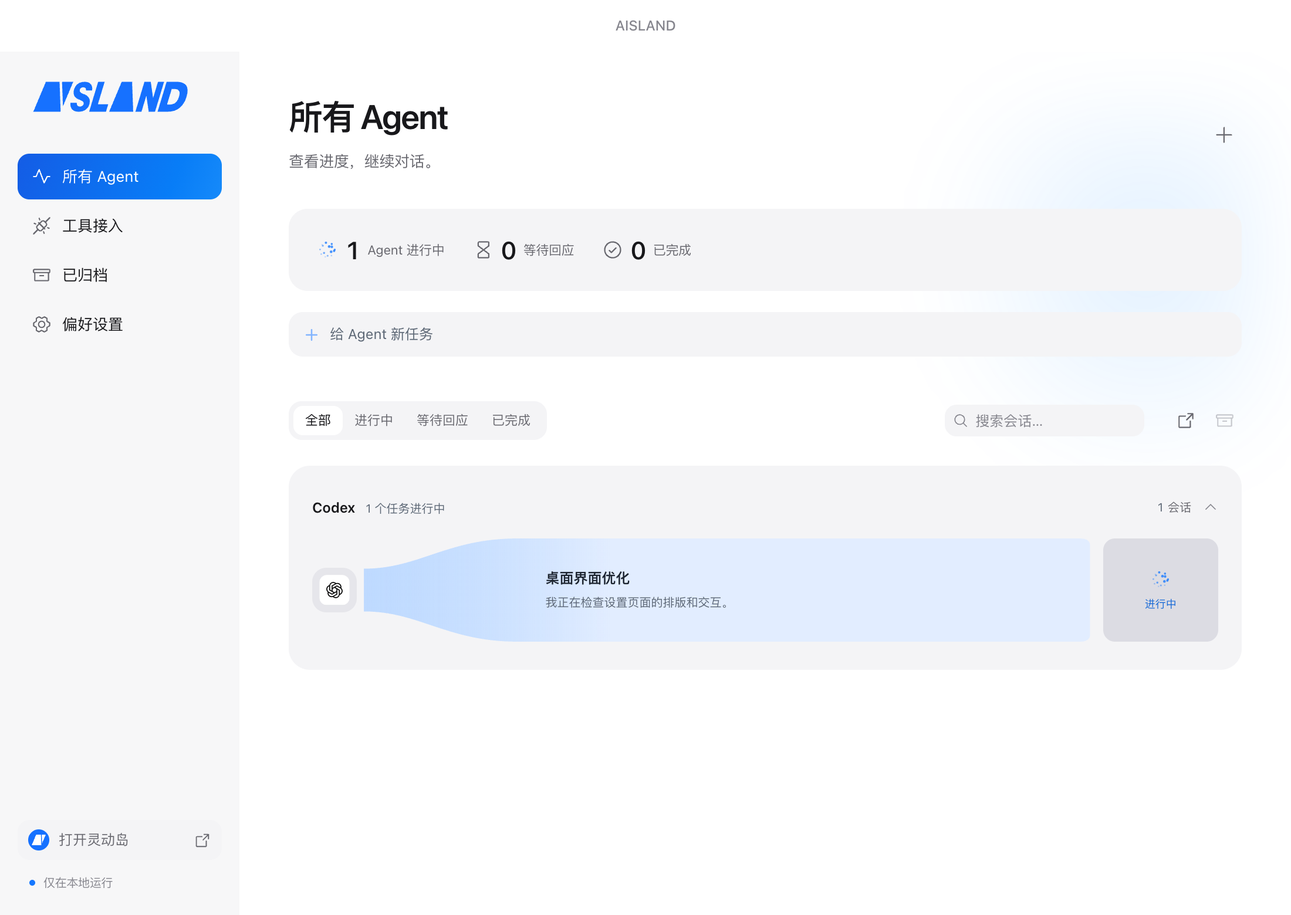
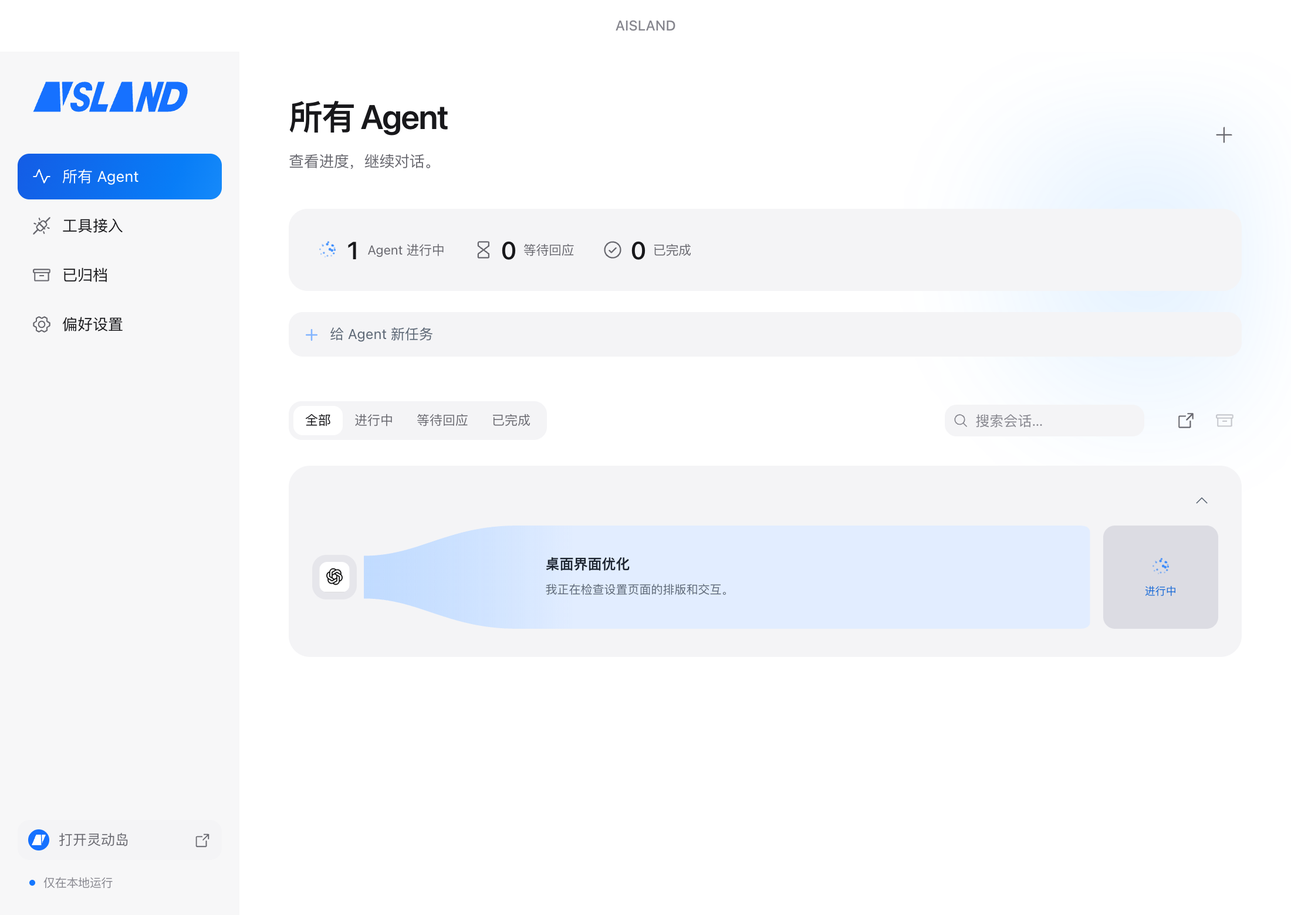
Publish compact Agent runways in AISLAND 0.3.35

Changed region(s): [[0.2473, 0.5538, 0.5564, 0.7077], [0.8964, 0.6154, 0.9273, 0.6462], [0.2473, 0.5538, 0.2782, 0.5846]]

diff --git a/public/docs/index.html b/public/docs/index.html
@@ -1,7 +1,7 @@
-<!doctype html><html lang="zh-CN"><head><meta charset="utf-8"><meta name="viewport" content="width=device-width,initial-scale=1"><title>使用文档 — AISLAND</title><meta name="description" content="AISLAND 的安装、快速体验、Node.js 与 Python 接入、审批安全和本地数据说明。"><meta name="theme-color" content="#ffffff"><link rel="canonical" href="https://calibg.github.io/agent-island/docs/"><link rel="icon" href="../assets/icon.svg?v=icons-33" type="image/svg+xml"><link rel="stylesheet" href="../marketing.css"><link rel="stylesheet" href="../docs.css"><script src="../site.js" defer></script></head><body class="landing">
-<a class="skip-link" href="#main">跳到文档内容</a><header class="header"><div class="container header-inner"><a class="brand" href="../"><img src="../assets/wordmark.svg?v=icons-33" width="150" height="28" alt="AISLAND"></a><nav class="nav" id="navigation" aria-label="主导航"><a href="../#product">产品体验</a><a href="../#connect">通用接入</a><a href="./" aria-current="page">使用文档</a></nav><a class="nav-download" href="../#download">下载体验 <span aria-hidden="true">↗</span></a><button class="menu-toggle" aria-expanded="false" aria-controls="navigation" aria-label="展开导航"><span></span><span></span></button></div></header>
+<!doctype html><html lang="zh-CN"><head><meta charset="utf-8"><meta name="viewport" content="width=device-width,initial-scale=1"><title>使用文档 — AISLAND</title><meta name="description" content="AISLAND 的安装、快速体验、Node.js 与 Python 接入、审批安全和本地数据说明。"><meta name="theme-color" content="#ffffff"><link rel="canonical" href="https://calibg.github.io/agent-island/docs/"><link rel="icon" href="../assets/icon.svg?v=runways-35" type="image/svg+xml"><link rel="stylesheet" href="../marketing.css"><link rel="stylesheet" href="../docs.css"><script src="../site.js" defer></script></head><body class="landing">
+<a class="skip-link" href="#main">跳到文档内容</a><header class="header"><div class="container header-inner"><a class="brand" href="../"><img src="../assets/wordmark.svg?v=runways-35" width="150" height="28" alt="AISLAND"></a><nav class="nav" id="navigation" aria-label="主导航"><a href="../#product">产品体验</a><a href="../#connect">通用接入</a><a href="./" aria-current="page">使用文档</a></nav><a class="nav-download" href="../#download">下载体验 <span aria-hidden="true">↗</span></a><button class="menu-toggle" aria-expanded="false" aria-controls="navigation" aria-label="展开导航"><span></span><span></span></button></div></header>
 <div class="container docs-layout"><aside class="docs-sidebar" aria-label="文档目录"><p class="eyebrow">GETTING STARTED</p><a href="#install">安装与打开</a><a href="#first-use">第一次体验</a><a href="#desktop-agents">桌面 Agent 与启动设置</a><a href="#quickstart">接入你的 Agent</a><a href="#approvals">审批与问答</a><a href="#capabilities">当前支持范围</a><a href="#privacy">数据与隐私</a><a href="#troubleshooting">常见问题</a><a href="./protocol.md">完整 HTTP 协议 ↗</a></aside>
-<main class="docs-content" id="main"><p class="eyebrow">AISLAND / DOCUMENTATION</p><h1>从这里，开始登岛。</h1><p class="docs-lead">安装应用，体验小岛，再把你自己的 Agent 接进来。<br>适用于 v0.3.34 预览版。</p>
+<main class="docs-content" id="main"><p class="eyebrow">AISLAND / DOCUMENTATION</p><h1>从这里，开始登岛。</h1><p class="docs-lead">安装应用，体验小岛，再把你自己的 Agent 接进来。<br>适用于 v0.3.35 预览版。</p>
 <section id="install"><h2>安装与打开</h2><p>应用本身不需要 Node.js 或 Python。Claude Code、Codex、WorkBuddy、Antigravity 的 Hooks 需要 Python 3.9+；对应 SDK 需要 Node.js 20+ 或 Python 3.9+。</p><h3>macOS · Apple Silicon</h3><ol><li>从<a href="../#download">下载页面</a>获取 DMG，打开后将 AISLAND 拖入 Applications（应用程序）。</li><li>从应用程序中启动 AISLAND。</li><li>当前提供 M 系列芯片版本，尚未提供 Intel 安装包。</li></ol><p>桌面界面跟随系统明暗模式。macOS 开关使用 AppKit NSSwitch；Windows 设置使用微软官方 Fluent UI React 组件，并保留系统窗口按钮。</p><h3>Windows · x64</h3><ol><li>下载 EXE 安装程序，按提示安装并打开。</li></ol><div class="doc-note"><p>当前是未签名的预览版，尚未完成 Apple Developer ID 公证或 Windows Authenticode 签名。首次打开可能出现系统来源提示，请先确认下载地址和<a href="../download-checksums.txt">文件校验信息</a>。Mac 已完成自动化验证，Windows 安装包已构建，尚待实机验证。</p></div><p>应用常驻菜单栏或系统托盘。关闭管理窗口不会退出应用；如需完全退出，请使用托盘菜单中的「退出」。</p></section>
 <section class="doc-section" id="first-use"><h2>接入 Claude Code</h2><ol><li>启动 AISLAND，打开「工具接入」，点击 Claude Code 的「安装接入」。这一步需要 Python 3.9+。</li><li>在项目终端运行 <code>claude</code>。已启动的会话可重启一次或用 <code>/hooks</code> 检查配置。</li><li>提交真实任务后，小岛显示运行状态；权限确认和问题回答会返回当前 Claude Code 会话。</li></ol><p>保留你已有的 Hooks、模型和权限配置。只有明确确认才允许操作；小岛不在线或请求超时，回到 Claude Code 原有交互。计划确认仍在终端处理。</p><p>快捷键：macOS 为 Cmd + Shift + Space，Windows 为 Ctrl + Shift + Space。</p></section>
 <section id="desktop-agents"><h2>Codex、Antigravity 与接入助手</h2><p>在应用「工具接入」中打开接入助手。先检查 Python 3.9+ 和 Codex，再安装接入配置。助手保留已有配置并备份，不会更改权限策略。</p><h3>Codex 桌面软件</h3><ol><li>点击「安装 Codex 接入」，等待写入完成。</li><li>点击「打开审核终端」，在 Codex 中输入 <code>/hooks</code>，审核并信任「AISLAND · Codex」条目。审核不会自动进行。</li><li>回到小岛点击「重新检查」。显示已启用并信任后，重启 Codex 桌面端并开启新任务。</li></ol><p>支持真实进度、工具调用、权限确认、结束与中断。问答和计划仍在 Codex 中完成。用户级 Hooks 也会被同一配置下的 CLI 加载；小岛跳转唤起桌面软件，不定位具体聊天。</p><h3>Antigravity</h3><p>在对应接入卡片点击安装，重启 Antigravity 并开启新任务。支持进度、工具调用与后台任务状态。权限和问答在 Antigravity 内处理。</p><h3>登录后自动运行</h3><p>「登录后自动启动小岛」与「启动时运行接入检查」是独立开关，默认关闭。前者运行本机服务；后者只读检查环境与 Hooks 状态，发现未完成步骤时显示助手，不自动批准 Hooks。</p><p>应用先放入应用程序目录或通过 Windows 安装程序安装。系统要求批准登录项时，请在系统设置中完成；未签名 macOS 预览包的登录启动可能受系统限制。界面显示系统实际状态，不能等同于已经实测重启。</p><p>「已配置」不代表已经连接。收到真实 Hook 后才显示事件回执。安装脚本与配置不上传网站。</p></section><section class="doc-section" id="quickstart"><h2>接入你的 Agent</h2><h3>第一次接入：复制一段指令</h3><ol><li>在 AISLAND 打开「工具接入」，点击「复制接入指令」。</li><li>粘贴到这台电脑上的 Agent 对话中，让它按指令完成接入配置。</li><li>回到 AISLAND。收到对应 Agent 的回执后，导览会自动显示「本机通信已验证」。</li></ol><p>无需手动填写端口或拼接命令，SDK 路径和接入说明会自动加入指令。适用于能读取本机文件、执行命令的 Agent；仅聊天的网页应用不能靠粘贴文字接入。验证不会创建演示任务。真实进度、审批和问答需由 Agent 接入对应的回调，后台派发能力单独判断。SDK、地址和示例命令仍可在「高级接入」中找到。</p><h3>开发者：手动接入 SDK</h3><p>先启动 AISLAND，再把 SDK 文件复制到你自己的项目。SDK 会读取当前用户目录下的本机连接信息，向应用报告状态。无需第三方依赖，也不需要填写 AI 服务密钥。</p><div class="doc-downloads"><a class="button" href="../sdk/agent-island.mjs" download>下载 Node.js SDK ↓</a><a class="button" href="../sdk/agent_island.py" download>下载 Python SDK ↓</a><a class="button" href="../sdk/example.mjs" download>下载完整 Node.js 示例 ↓</a></div><h3>Node.js</h3><p>将以下代码保存为 <code>connect.mjs</code>，与 <code>agent-island.mjs</code> 放在同一个目录，然后运行 <code>node connect.mjs</code>。</p><pre><code>import { AgentIsland } from './agent-island.mjs';
@@ -33,10 +33,10 @@ if (result.decision === 'allow') {
 } else {
   await island.complete('操作未获批准。');
 }</code></pre><p>审批最多等待约 10 分钟。超时、断线、会话结束、应用退出或重启，都不会自动批准。接入方必须把错误与 <code>cancel</code> 视为未批准，不应在捕获异常后继续执行待确认操作。</p><p>Node.js SDK 还提供 <code>ask()</code>（单选、多选、自定义回答）、<code>plan()</code>（计划与反馈）和 <code>usage()</code>（真实上报的用量）。可下载完整示例体验双向交互。Python 可用 <code>send()</code> 发送协议定义的其他事件。</p></section>
-<section class="doc-section" id="more-agents"><h2>Gemini、Cursor、MiniMax 与智谱</h2><p>v0.3.29 新增 Gemini CLI 与 Cursor 的官方 Hooks 观察接入。在「工具接入」安装后开启新会话，收到任务事件才显示已收到事件。支持任务和工具状态、最终回复；审批与续发仍在原应用完成。Gemini CLI 与 Gemini 网页是不同的接入。</p><p>MiniMax Code 使用本地 Plugin V1 Hooks。安装官方 MiniMax Code 和 mcode 命令后，在「工具接入 → MiniMax Code」点击「接入」：AISLAND 会查询当前配置的本地插件目录，安装、启用并检查插件。更新前备份旧插件，遇到其他同名插件不会覆盖。也可以展开说明选择「手动安装插件」。开始真实任务后收到事件，才说明进度链路已接通；审批、问答与续发仍在 MiniMax Code 完成。MiniMax Design 不适用。</p><p>智谱 GLM 可通过已配置 GLM 的 Claude Code 接入：安装 Claude Code Hooks 后，根据事件明确提供的模型标识显示智谱，仍续发到同一个 Claude Code 会话。不会自动连接智谱清言或 AutoGLM。智谱清言客户端已单独列出，目前原会话读取、进度同步与后台续发仍待实机验证；开放平台的助手 API 不代表已经接通清言客户端。</p><p>豆包电脑版、Grok 原有对话的状态同步与后台续发目前尚未接通；公开模型 API 不代表可以读取这些产品里的现有对话。应用会明确显示限制。</p><p>新适配器已通过隔离 Hook 进程与本地桥的协议测试；所有新客户端的用户账户实机验收仍待完成。官方参考：<a href="https://geminicli.com/docs/hooks/reference/">Gemini CLI Hooks</a>、<a href="https://cursor.com/docs/hooks">Cursor Hooks</a>、<a href="https://github.com/MiniMax-AI/minimax-code/blob/main/docs/hooks.md">MiniMax Hooks</a>、<a href="https://docs.bigmodel.cn/cn/coding-plan/best-practice/claude-code">智谱接入指南</a>。</p></section><section class="doc-section" id="capabilities"><h2>当前支持范围</h2><p>v0.3.30 的分叉根据任务活动调整高度：活跃任务更突出，暂停、完成和长期无进展的会话更紧凑。左侧图标区域随任务量适度增长，始终小于分支总高度的 2/3。五分钟没有新进展只影响显示空间，不改变任务状态；鼠标操作或输入时固定布局，原有蓝色动效保留。</p><div class="table-scroll"><table><thead><tr><th>功能</th><th>v0.3.34 状态</th></tr></thead><tbody><tr><td>桌面小岛、悬停、快捷键、多显示器</td><td>已提供</td></tr><tr><td>Mac 原生刘海定位与 Force Touch 进入反馈</td><td>已提供；触感需支持的触控板</td></tr><tr><td>事件提示音、音量、安静时段、减少动态效果</td><td>已提供</td></tr><tr><td>会话搜索、筛选、活动记录、归档</td><td>已提供</td></tr><tr><td>审批、问答、计划审阅、用量上报</td><td>已提供</td></tr><tr><td>Node.js / Python / HTTP 通用接入</td><td>已提供</td></tr><tr><td>Claude Code Hooks</td><td>状态、权限确认与问答已提供；计划确认在终端</td></tr><tr><td>Codex / Antigravity</td><td>真实 Hooks 接入；具体能力与首次信任见上文</td></tr><tr><td>接入助手与启动检查</td><td>环境检查、官方信任状态、用户自行选择登录启动</td></tr><tr><td>厂商账户额度自动采集、SSH、手机推送、自动更新</td><td>未提供</td></tr></tbody></table></div><p>应用采用 Electron + React 与 macOS 原生面板模块。Mac 读取刘海安全区并从下沿展开；Windows 从屏幕顶部中央展开，外接屏无需物理刘海。AISLAND 为独立实现，不是 Vibe Island 的官方版本。</p></section>
+<section class="doc-section" id="more-agents"><h2>Gemini、Cursor、MiniMax 与智谱</h2><p>v0.3.29 新增 Gemini CLI 与 Cursor 的官方 Hooks 观察接入。在「工具接入」安装后开启新会话，收到任务事件才显示已收到事件。支持任务和工具状态、最终回复；审批与续发仍在原应用完成。Gemini CLI 与 Gemini 网页是不同的接入。</p><p>MiniMax Code 使用本地 Plugin V1 Hooks。安装官方 MiniMax Code 和 mcode 命令后，在「工具接入 → MiniMax Code」点击「接入」：AISLAND 会查询当前配置的本地插件目录，安装、启用并检查插件。更新前备份旧插件，遇到其他同名插件不会覆盖。也可以展开说明选择「手动安装插件」。开始真实任务后收到事件，才说明进度链路已接通；审批、问答与续发仍在 MiniMax Code 完成。MiniMax Design 不适用。</p><p>智谱 GLM 可通过已配置 GLM 的 Claude Code 接入：安装 Claude Code Hooks 后，根据事件明确提供的模型标识显示智谱，仍续发到同一个 Claude Code 会话。不会自动连接智谱清言或 AutoGLM。智谱清言客户端已单独列出，目前原会话读取、进度同步与后台续发仍待实机验证；开放平台的助手 API 不代表已经接通清言客户端。</p><p>豆包电脑版、Grok 原有对话的状态同步与后台续发目前尚未接通；公开模型 API 不代表可以读取这些产品里的现有对话。应用会明确显示限制。</p><p>新适配器已通过隔离 Hook 进程与本地桥的协议测试；所有新客户端的用户账户实机验收仍待完成。官方参考：<a href="https://geminicli.com/docs/hooks/reference/">Gemini CLI Hooks</a>、<a href="https://cursor.com/docs/hooks">Cursor Hooks</a>、<a href="https://github.com/MiniMax-AI/minimax-code/blob/main/docs/hooks.md">MiniMax Hooks</a>、<a href="https://docs.bigmodel.cn/cn/coding-plan/best-practice/claude-code">智谱接入指南</a>。</p></section><section class="doc-section" id="capabilities"><h2>当前支持范围</h2><p>v0.3.35 简化会话分组：收起时只显示 Agent 名称和展开图标，空闲时为灰色跑道，有任务进行时显示蓝色渐变流动；展开后直接显示分叉内容，不重复展示分组名称、状态说明和会话数量。</p><p>v0.3.30 的分叉根据任务活动调整高度：活跃任务更突出，暂停、完成和长期无进展的会话更紧凑。左侧图标区域随任务量适度增长，始终小于分支总高度的 2/3。五分钟没有新进展只影响显示空间，不改变任务状态；鼠标操作或输入时固定布局，原有蓝色动效保留。</p><div class="table-scroll"><table><thead><tr><th>功能</th><th>v0.3.35 状态</th></tr></thead><tbody><tr><td>桌面小岛、悬停、快捷键、多显示器</td><td>已提供</td></tr><tr><td>Mac 原生刘海定位与 Force Touch 进入反馈</td><td>已提供；触感需支持的触控板</td></tr><tr><td>事件提示音、音量、安静时段、减少动态效果</td><td>已提供</td></tr><tr><td>会话搜索、筛选、活动记录、归档</td><td>已提供</td></tr><tr><td>审批、问答、计划审阅、用量上报</td><td>已提供</td></tr><tr><td>Node.js / Python / HTTP 通用接入</td><td>已提供</td></tr><tr><td>Claude Code Hooks</td><td>状态、权限确认与问答已提供；计划确认在终端</td></tr><tr><td>Codex / Antigravity</td><td>真实 Hooks 接入；具体能力与首次信任见上文</td></tr><tr><td>接入助手与启动检查</td><td>环境检查、官方信任状态、用户自行选择登录启动</td></tr><tr><td>厂商账户额度自动采集、SSH、手机推送、自动更新</td><td>未提供</td></tr></tbody></table></div><p>应用采用 Electron + React 与 macOS 原生面板模块。Mac 读取刘海安全区并从下沿展开；Windows 从屏幕顶部中央展开，外接屏无需物理刘海。AISLAND 为独立实现，不是 Vibe Island 的官方版本。</p></section>
 <section class="doc-section" id="privacy"><h2>数据与隐私</h2><p>桌面应用的桥接服务只监听 <code>127.0.0.1</code>，不向局域网开放。请求需通过本机令牌验证，并拒绝携带浏览器 Origin 的请求。不要公开或分享 <code>connection.json</code>。</p><p>会话文本与操作预览保存在 <code>~/.agent-island/state.json</code>。记录默认保留 7 天，下次启动时清理过期记录。在偏好设置中可打开数据目录。</p><p>AISLAND 默认只在本机运行，不设置遥测。主动启用手机连接后，进度摘要和手机指令在设备上用 AES-256-GCM 加密，再经过你配置的 Cloudflare Workers / D1 同步；服务端不持有解密密钥。电脑超过 24 小时不再同步时，服务会清理旧连接。手机配对信息保存在设备本地，配对链接相当于访问凭据，不要分享。你所接入的 AI 工具可能有自己的网络行为与数据策略，请以对应工具的设置为准。</p><p>本官网不嵌入分析追踪器，也不设置账户系统。网页由 GitHub Pages 托管，安装包通过 GitHub Releases 分发；访问与下载产生的基础服务日志由 GitHub 按其<a href="https://docs.github.com/en/site-policy/privacy-policies/github-general-privacy-statement">隐私声明</a>处理。</p></section>
 <section class="doc-section" id="mobile"><h2>手机同步与控制</h2><p>自部署用户可下载<a href="https://github.com/CaliBG/agent-island/releases/download/v0.3.0/Agent-Island-Sync-0.1.0.zip">免费同步服务部署包</a>，按其中 README 设置 Workers 和 D1。</p><ol><li>在电脑打开「设置 → 手机与远程」，配置你自己的 Cloudflare Workers 免费同步服务，然后生成配对码。已配置服务的电脑可直接生成二维码。</li><li>手机打开<a href="../mobile/">移动端</a>，扫码或粘贴配对链接。二维码仅用于配对，有效期 10 分钟。</li><li>iPhone 可通过 Safari「分享 → 添加到主屏幕」免费使用。Android 可从官网下载 APK 安装；原生预览版尚待真机验证。</li><li>按需在电脑分别允许「发送 Agent 任务」「调整保持唤醒」「打开远程控制软件」。三项默认关闭。</li></ol><p>前台约 5 秒刷新，手机进入后台后暂停轮询。电脑需运行 AISLAND 并联网；离线时只能查看最后同步的数据。发送后的“已排队”不等于执行成功，请以电脑返回的回执为准。保持唤醒不会解除手动锁屏，远程软件仍使用自身的登录和验证。</p><p>同步后端使用 Workers / D1 免费额度，超额时可能暂停，不会自动升级付费。AI 工具本身的订阅、额度以及第三方远程软件的收费由各厂商决定。iOS 原生工程已编译验证，尚未提供 App Store / TestFlight 安装。</p></section>
 <section class="doc-section" id="task-input"><h2>从小岛发送任务</h2><p>点击「给 Agent 新任务」，选择 Agent 和原对话；鼠标靠近分支右侧的状态按钮会自动弹出输入气泡；点击输入框后取得键盘焦点，已结束的会话也可正常输入。Codex、Claude Code 支持原会话续发，保留上下文；运行中可以排队发送，任务完成后自动续发，每个会话最多一条，可撤回编辑。应用重启或当前任务异常后，队列会暂停，需确认后重新提交。</p><p>Codex 使用官方 app-server 恢复同一个会话，桌面客户端可能需要重新打开对话才能显示新内容；Claude Code 使用官方 Agent SDK。两者沿用本机已有登录，不要求另外填写 API Key。需要审批时，在小岛逐次确认。</p></section>
 <section class="doc-section" id="workbuddy"><h2>接入 WorkBuddy</h2><ol><li>打开「设置 → Agent 接入 → WorkBuddy → 接入」。</li><li>在 WorkBuddy 审核新增 Hooks，再开启新会话；旧会话可能需要重启后加载配置。</li><li>开始真实任务后，设置页会显示「已收到事件」和时间；「已配置」只代表配置已写入。</li></ol><p>当前同步任务、工具调用、结束状态。v0.3.10 增加「填入原对话」：核对会话后通过系统辅助功能填入输入框，已有草稿不会覆盖，发送仍需在 WorkBuddy 确认。Mac 首次使用需允许辅助功能；适配 WorkBuddy 5.11.2，Mac 已由用户验证文字进入正确原对话框；Windows 实机仍待验收。Antigravity 和其他通用接入尚不支持可靠续发，输入框会明确提示。审批与问答仍在 WorkBuddy 完成。安装器会备份配置并保留其他 Hooks 和权限规则。</p></section><section class="doc-section" id="troubleshooting"><h2>常见问题</h2><h3>示例提示找不到 connection.json</h3><p>先打开 AISLAND，确认「工具接入」显示本地连接正常。SDK 和应用需要在同一台电脑、同一用户下运行。自定义数据路径时，可使用 <code>AGENT_ISLAND_HOME</code> 指向相应目录。</p><h3>小岛没有显示在预期位置</h3><p>使用快捷键唤起，或从托盘菜单打开管理窗口，检查偏好设置中的显示器与浮动方式。显示器断开后，应用会回退到可用屏幕。</p><h3>MacBook 没有感觉到震动</h3><p>在设置 → 外观与交互中开启「触控板触感」，将手指放在支持 Force Touch 的触控板上，点击「试一下」。每次进入只发送一次触感，默认清脆模式，可切换标准或轻触。系统公开接口不支持改变单次震动振幅。区域内移动不重复，移出再进入重新触发。声音开关与触感开关相互独立，普通鼠标本身不会震动。</p><h3>无法跳回终端</h3><p>macOS 首次定位 Terminal / iTerm2 会话可能需要系统自动化权限。Windows 在管理员窗口或某些全屏应用下可能拒绝切换焦点。若无法定位会话，可先从工具界面打开对应项目目录。</p><h3>发现其他问题</h3><p>请通过 <a href="https://github.com/CaliBG/agent-island/issues">GitHub Issues</a> 描述操作系统、应用版本与复现步骤。提交截图或日志前，请移除连接令牌、个人路径和项目敏感内容。</p></section>
-<div class="docs-footer">AISLAND v0.3.34 · <a href="../">返回官网</a> · <a href="https://github.com/CaliBG/agent-island/releases/tag/v0.3.34">查看发布记录</a></div></main></div>
+<div class="docs-footer">AISLAND v0.3.35 · <a href="../">返回官网</a> · <a href="https://github.com/CaliBG/agent-island/releases/tag/v0.3.35">查看发布记录</a></div></main></div>
 </body></html>

diff --git a/public/index.html b/public/index.html
@@ -5,24 +5,24 @@
 <title>AISLAND — 少一点切换，多一点专注。</title>
 <meta name="description" content="把 Claude Code、Codex、WorkBuddy 和 Antigravity 的工作进度带到屏幕顶部。真实事件、本地运行、按需回应。下载适用于 macOS 和 Windows 的 AISLAND。">
 <meta name="theme-color" content="#ffffff"><link rel="canonical" href="https://calibg.github.io/agent-island/">
-<meta property="og:type" content="website"><meta property="og:title" content="AISLAND — 少一点切换，多一点专注。"><meta property="og:description" content="Agent 继续工作，你继续专注。macOS + Windows 桌面灵动岛。"><meta property="og:url" content="https://calibg.github.io/agent-island/"><meta property="og:image" content="https://calibg.github.io/agent-island/assets/social.png?v=icons-33"><meta name="twitter:card" content="summary_large_image">
-<link rel="icon" type="image/svg+xml" href="./assets/icon.svg?v=icons-33"><link rel="preload" as="font" href="./assets/departure-mono.woff2" type="font/woff2" crossorigin>
+<meta property="og:type" content="website"><meta property="og:title" content="AISLAND — 少一点切换，多一点专注。"><meta property="og:description" content="Agent 继续工作，你继续专注。macOS + Windows 桌面灵动岛。"><meta property="og:url" content="https://calibg.github.io/agent-island/"><meta property="og:image" content="https://calibg.github.io/agent-island/assets/social.png?v=runways-35"><meta name="twitter:card" content="summary_large_image">
+<link rel="icon" type="image/svg+xml" href="./assets/icon.svg?v=runways-35"><link rel="preload" as="font" href="./assets/departure-mono.woff2" type="font/woff2" crossorigin>
 <link rel="stylesheet" href="./marketing.css"><link rel="stylesheet" href="./ui/hover-buttons.css"><script src="./site.js" defer></script><script type="module" src="./ui/hover-buttons.js"></script>
 </head>
 <body>
 <a class="skip-link" href="#main">跳到主要内容</a>
-<header class="header"><div class="container header-inner"><a href="./" class="brand" aria-label="AISLAND 首页"><img class="aisland-wordmark" src="./assets/wordmark.svg?v=icons-33" width="150" height="28" alt="AISLAND"></a><nav class="nav" aria-label="主导航"><a href="#product">产品</a><a href="#connect">接入</a><a href="./mobile/">手机端</a><a href="./docs/">文档 ↗</a></nav><a class="nav-download" href="#download">免费下载 <span aria-hidden="true">↗</span></a></div></header>
+<header class="header"><div class="container header-inner"><a href="./" class="brand" aria-label="AISLAND 首页"><img class="aisland-wordmark" src="./assets/wordmark.svg?v=runways-35" width="150" height="28" alt="AISLAND"></a><nav class="nav" aria-label="主导航"><a href="#product">产品</a><a href="#connect">接入</a><a href="./mobile/">手机端</a><a href="./docs/">文档 ↗</a></nav><a class="nav-download" href="#download">免费下载 <span aria-hidden="true">↗</span></a></div></header>
 <main id="main">
 <section class="hero container" aria-labelledby="hero-title">
-<div class="hero-copy"><a class="release-link" href="#download"><span class="status-dot"></span>v0.3.34 现已推出 <span>↗</span></a><h1 id="hero-title">专注，<br><span>不必切换。</span></h1><p class="hero-description">让 Agent 继续工作。<br>需要你的时刻，屏幕顶部见。</p><div class="hero-actions"><span data-hover-button data-variant="light"><a class="button-fallback" href="#download">下载 AISLAND</a></span><a class="quiet-link" href="#product">看看小岛 <span aria-hidden="true">↓</span></a></div><p class="hero-note">macOS + Windows <span>·</span> 无需注册</p></div>
-<div class="hero-visual"><div class="laptop-mockup" role="group" aria-label="MacBook 比例样机，嵌入真实软件截图"><div class="laptop-screen"><div class="screen-toolbar" aria-hidden="true"><span>AISLAND</span><span>本机连接</span></div><div class="device-notch" aria-hidden="true"></div><div class="screen-content"><img src="./assets/sessions.png?v=icons-33" alt="AISLAND 真实会话管理界面" width="2200" height="1560" fetchpriority="high"></div></div><div class="laptop-base" aria-hidden="true"><i></i></div><div class="laptop-foot" aria-hidden="true"></div></div><p class="visual-caption">你的工具，照常工作。<span>你的注意力，自由。</span></p></div>
+<div class="hero-copy"><a class="release-link" href="#download"><span class="status-dot"></span>v0.3.35 现已推出 <span>↗</span></a><h1 id="hero-title">专注，<br><span>不必切换。</span></h1><p class="hero-description">让 Agent 继续工作。<br>需要你的时刻，屏幕顶部见。</p><div class="hero-actions"><span data-hover-button data-variant="light"><a class="button-fallback" href="#download">下载 AISLAND</a></span><a class="quiet-link" href="#product">看看小岛 <span aria-hidden="true">↓</span></a></div><p class="hero-note">macOS + Windows <span>·</span> 无需注册</p></div>
+<div class="hero-visual"><div class="laptop-mockup" role="group" aria-label="MacBook 比例样机，嵌入真实软件截图"><div class="laptop-screen"><div class="screen-toolbar" aria-hidden="true"><span>AISLAND</span><span>本机连接</span></div><div class="device-notch" aria-hidden="true"></div><div class="screen-content"><img src="./assets/sessions.png?v=runways-35" alt="AISLAND 真实会话管理界面" width="2200" height="1560" fetchpriority="high"></div></div><div class="laptop-base" aria-hidden="true"><i></i></div><div class="laptop-foot" aria-hidden="true"></div></div><p class="visual-caption">你的工具，照常工作。<span>你的注意力，自由。</span></p></div>
 </section>
 <div class="compatibility container"><span>与你的 Agent 一起</span><div><span class="agent-wordmark claude-wordmark">✳ <b>Claude Code</b></span><span class="agent-wordmark">⌘ <b>Codex</b></span><span class="agent-wordmark">⌁ <b>Antigravity</b></span></div><a href="#connect">↗</a></div>
-<section id="product" class="product-section container" aria-labelledby="product-title"><div class="section-heading"><div><p class="eyebrow">01 / 小岛，很轻。</p><h2 id="product-title">抬头，<em>即见。</em></h2></div><p class="section-intro">进度、审批、回应。<br>出现得刚刚好。</p></div><div class="product-editorial"><figure class="island-figure"><div class="screen-edge" aria-hidden="true"><span></span><i></i><span></span></div><img src="./assets/island-live.png?v=icons-33" alt="屏幕顶部展开的小岛，显示示例 Codex 会话" width="896" height="700" loading="lazy"><figcaption>软件界面截图</figcaption></figure><div class="product-benefits"><article><span>01</span><h3>一眼看清进度</h3></article><article><span>02</span><h3>一次回应请求</h3></article><article><span>03</span><h3>一瞬回到专注</h3></article><a class="quiet-link" href="#download">把小岛放上桌面 ↗</a></div></div></section>
+<section id="product" class="product-section container" aria-labelledby="product-title"><div class="section-heading"><div><p class="eyebrow">01 / 小岛，很轻。</p><h2 id="product-title">抬头，<em>即见。</em></h2></div><p class="section-intro">进度、审批、回应。<br>出现得刚刚好。</p></div><div class="product-editorial"><figure class="island-figure"><div class="screen-edge" aria-hidden="true"><span></span><i></i><span></span></div><img src="./assets/island-live.png?v=runways-35" alt="屏幕顶部展开的小岛，显示示例 Codex 会话" width="896" height="700" loading="lazy"><figcaption>软件界面截图</figcaption></figure><div class="product-benefits"><article><span>01</span><h3>一眼看清进度</h3></article><article><span>02</span><h3>一次回应请求</h3></article><article><span>03</span><h3>一瞬回到专注</h3></article><a class="quiet-link" href="#download">把小岛放上桌面 ↗</a></div></div></section>
 <section class="focus-story" aria-labelledby="focus-title"><div class="container story-heading"><p class="eyebrow" id="focus-title">让注意力，留在此刻。</p><button id="crawl-toggle" type="button" aria-pressed="false">暂停动效 <span aria-hidden="true">Ⅱ</span></button></div><div class="crawl-viewport" aria-hidden="true"><div class="crawl-plane"><div class="crawl-copy"><p>少一点切换。</p><p>多一点专注。</p><p>让工作继续。</p><p>让进度来找你。</p><p>少一点切换。</p><p>多一点专注。</p></div></div></div><p class="sr-only">让 Agent 继续工作，把注意力留给手头的事。任务需要你的决定时，小岛会出现。</p><div class="story-bottom container"><span>ONE QUIET ISLAND.</span><a class="quiet-link" href="#download">开始专注 ↗</a></div></section>
-<section class="workspace-section container" aria-labelledby="workspace-title"><div class="section-heading"><div><p class="eyebrow">02 / 看见全貌。</p><h2 id="workspace-title">简单，也<em>完整。</em></h2></div><div class="product-tabs" role="tablist" aria-label="应用界面展示"><button role="tab" aria-selected="true" id="tab-sessions" aria-controls="product-panel" data-view="sessions">会话管理</button><button role="tab" aria-selected="false" tabindex="-1" id="tab-integrations" aria-controls="product-panel" data-view="integrations">工具接入</button><button role="tab" aria-selected="false" tabindex="-1" id="tab-settings" aria-controls="product-panel" data-view="settings">个人偏好</button></div></div><figure class="workspace-window" id="product-panel" role="tabpanel" aria-labelledby="tab-sessions" tabindex="0"><div class="window-rim"><span class="window-dots" aria-hidden="true"><i></i><i></i><i></i></span><span>AISLAND</span><span>界面截图 · 示例会话</span></div><img id="product-image" src="./assets/sessions.png?v=icons-33" width="2200" height="1560" loading="lazy" alt="AISLAND 真实会话管理界面"></figure><div class="product-caption"><p id="product-description">每个 Agent 一个位置，展开查看会话分支。</p><a href="#download">下载体验 ↗</a></div></section>
+<section class="workspace-section container" aria-labelledby="workspace-title"><div class="section-heading"><div><p class="eyebrow">02 / 看见全貌。</p><h2 id="workspace-title">简单，也<em>完整。</em></h2></div><div class="product-tabs" role="tablist" aria-label="应用界面展示"><button role="tab" aria-selected="true" id="tab-sessions" aria-controls="product-panel" data-view="sessions">会话管理</button><button role="tab" aria-selected="false" tabindex="-1" id="tab-integrations" aria-controls="product-panel" data-view="integrations">工具接入</button><button role="tab" aria-selected="false" tabindex="-1" id="tab-settings" aria-controls="product-panel" data-view="settings">个人偏好</button></div></div><figure class="workspace-window" id="product-panel" role="tabpanel" aria-labelledby="tab-sessions" tabindex="0"><div class="window-rim"><span class="window-dots" aria-hidden="true"><i></i><i></i><i></i></span><span>AISLAND</span><span>界面截图 · 示例会话</span></div><img id="product-image" src="./assets/sessions.png?v=runways-35" width="2200" height="1560" loading="lazy" alt="AISLAND 真实会话管理界面"></figure><div class="product-caption"><p id="product-description">每个 Agent 一个位置，展开查看会话分支。</p><a href="#download">下载体验 ↗</a></div></section>
 <section id="connect" class="connection-section container" aria-labelledby="connect-title"><div class="section-heading"><div><p class="eyebrow">03 / 连接一次。</p><h2 id="connect-title">此后，<em>照常工作。</em></h2></div><a href="./docs/#desktop-agents" class="quiet-link">跟随接入助手，开始连接 ↗</a></div><div class="integration-table"><article><div class="integration-name"><span>✳</span><h3>Claude Code</h3></div><p>进度 · 审批 · 问答</p><a href="./docs/#first-use" aria-label="Claude Code 接入说明">↗</a></article><article><div class="integration-name"><span>⌘</span><h3>Codex</h3></div><p>进度 · 审批 · 首次信任</p><a href="./docs/#desktop-agents" aria-label="Codex 接入说明">↗</a></article><article><div class="integration-name"><span>⌁</span><h3>Antigravity</h3></div><p>进度 · 工具 · 后台状态</p><a href="./docs/#desktop-agents" aria-label="Antigravity 接入说明">↗</a></article></div><div class="connection-note"><span>是否随登录启动，由你选择。</span><a href="./docs/#more-agents">Gemini · Cursor · MiniMax 接入 ↗</a></div></section>
-<section id="download" class="download-section" aria-labelledby="download-title"><div class="container"><div class="download-heading"><p class="eyebrow">你的下一次专注，从这里开始。</p><h2 id="download-title">给桌面，<em>一座小岛。</em></h2><p>本地运行。无需注册。免费预览。</p></div><div class="download-grid"><article class="download-card"><div class="download-title"><span aria-hidden="true">⌘</span><div><h3>macOS</h3><p>Apple Silicon · M 系列</p></div><span class="version-label">0.3.34</span></div><span data-hover-button data-full-width="true" data-variant="light"><a class="button-fallback" href="https://github.com/CaliBG/agent-island/releases/download/v0.3.34/Agent-Island-0.3.34-mac-arm64.dmg">下载 Mac 版</a></span><div class="download-meta"><span>DMG · 127.3 MiB</span><a href="./docs/#install">安装说明 ↗</a></div></article><article class="download-card"><div class="download-title"><span aria-hidden="true">⊞</span><div><h3>Windows</h3><p>x64 · 安装版</p></div><span class="version-label">0.3.34</span></div><span data-hover-button data-full-width="true"><a class="button-fallback" href="https://github.com/CaliBG/agent-island/releases/download/v0.3.34/Agent-Island-0.3.34-win-x64.exe">下载 Windows 版</a></span><div class="download-meta"><span>EXE · 125.0 MiB</span><a href="./docs/#install">安装说明 ↗</a></div></article></div><div class="mobile-download"><div><strong>把进度带在身边。</strong><p>iPhone 添加到主屏幕 · Android 安装 APK</p></div><a href="./mobile/">打开手机端 ↗</a><a href="https://github.com/CaliBG/agent-island/releases/download/v0.3.23/AISLAND-Mobile-0.1.4-android.apk">下载 Android ↗</a></div><div class="release-note"><p>未签名预览版 · Hooks 需要 Python 3.9+ · Windows 实机待验证</p><div><a href="https://github.com/CaliBG/agent-island/releases/tag/v0.3.34">版本说明 ↗</a><a href="./download-checksums.txt">SHA-256 校验 ↗</a></div></div></div></section>
+<section id="download" class="download-section" aria-labelledby="download-title"><div class="container"><div class="download-heading"><p class="eyebrow">你的下一次专注，从这里开始。</p><h2 id="download-title">给桌面，<em>一座小岛。</em></h2><p>本地运行。无需注册。免费预览。</p></div><div class="download-grid"><article class="download-card"><div class="download-title"><span aria-hidden="true">⌘</span><div><h3>macOS</h3><p>Apple Silicon · M 系列</p></div><span class="version-label">0.3.35</span></div><span data-hover-button data-full-width="true" data-variant="light"><a class="button-fallback" href="https://github.com/CaliBG/agent-island/releases/download/v0.3.35/Agent-Island-0.3.35-mac-arm64.dmg">下载 Mac 版</a></span><div class="download-meta"><span>DMG · 127.3 MiB</span><a href="./docs/#install">安装说明 ↗</a></div></article><article class="download-card"><div class="download-title"><span aria-hidden="true">⊞</span><div><h3>Windows</h3><p>x64 · 安装版</p></div><span class="version-label">0.3.35</span></div><span data-hover-button data-full-width="true"><a class="button-fallback" href="https://github.com/CaliBG/agent-island/releases/download/v0.3.35/Agent-Island-0.3.35-win-x64.exe">下载 Windows 版</a></span><div class="download-meta"><span>EXE · 125.0 MiB</span><a href="./docs/#install">安装说明 ↗</a></div></article></div><div class="mobile-download"><div><strong>把进度带在身边。</strong><p>iPhone 添加到主屏幕 · Android 安装 APK</p></div><a href="./mobile/">打开手机端 ↗</a><a href="https://github.com/CaliBG/agent-island/releases/download/v0.3.23/AISLAND-Mobile-0.1.4-android.apk">下载 Android ↗</a></div><div class="release-note"><p>未签名预览版 · Hooks 需要 Python 3.9+ · Windows 实机待验证</p><div><a href="https://github.com/CaliBG/agent-island/releases/tag/v0.3.35">版本说明 ↗</a><a href="./download-checksums.txt">SHA-256 校验 ↗</a></div></div></div></section>
 
-</main><footer class="footer container"><a class="brand" href="./"><img class="aisland-wordmark" src="./assets/wordmark.svg?v=icons-33" width="150" height="28" alt="AISLAND"></a><p>© 2026</p><div><a href="./docs/">文档</a><a href="./docs/#privacy">隐私</a><a href="https://github.com/CaliBG/agent-island">GitHub ↗</a></div><a href="#main" aria-label="回到顶部">↑</a></footer><div class="toast" role="status" aria-live="polite"></div>
+</main><footer class="footer container"><a class="brand" href="./"><img class="aisland-wordmark" src="./assets/wordmark.svg?v=runways-35" width="150" height="28" alt="AISLAND"></a><p>© 2026</p><div><a href="./docs/">文档</a><a href="./docs/#privacy">隐私</a><a href="https://github.com/CaliBG/agent-island">GitHub ↗</a></div><a href="#main" aria-label="回到顶部">↑</a></footer><div class="toast" role="status" aria-live="polite"></div>
 </body></html>

diff --git a/public/site.js b/public/site.js
@@ -23,7 +23,7 @@ const views = {
 function selectView(name) {
   const view = views[name];
   $$('.product-tabs [role=tab]').forEach(tab => {tab.setAttribute('aria-selected', String(tab.dataset.view === name));tab.tabIndex = tab.dataset.view === name ? 0 : -1;});
-  $('#product-image').src = './assets/' + view.image + '?v=icons-33';
+  $('#product-image').src = './assets/' + view.image + '?v=runways-35';
   $('#product-image').alt = view.alt;
   $('#product-description').textContent = view.text;
   $('#product-panel').setAttribute('aria-labelledby','tab-'+name);
